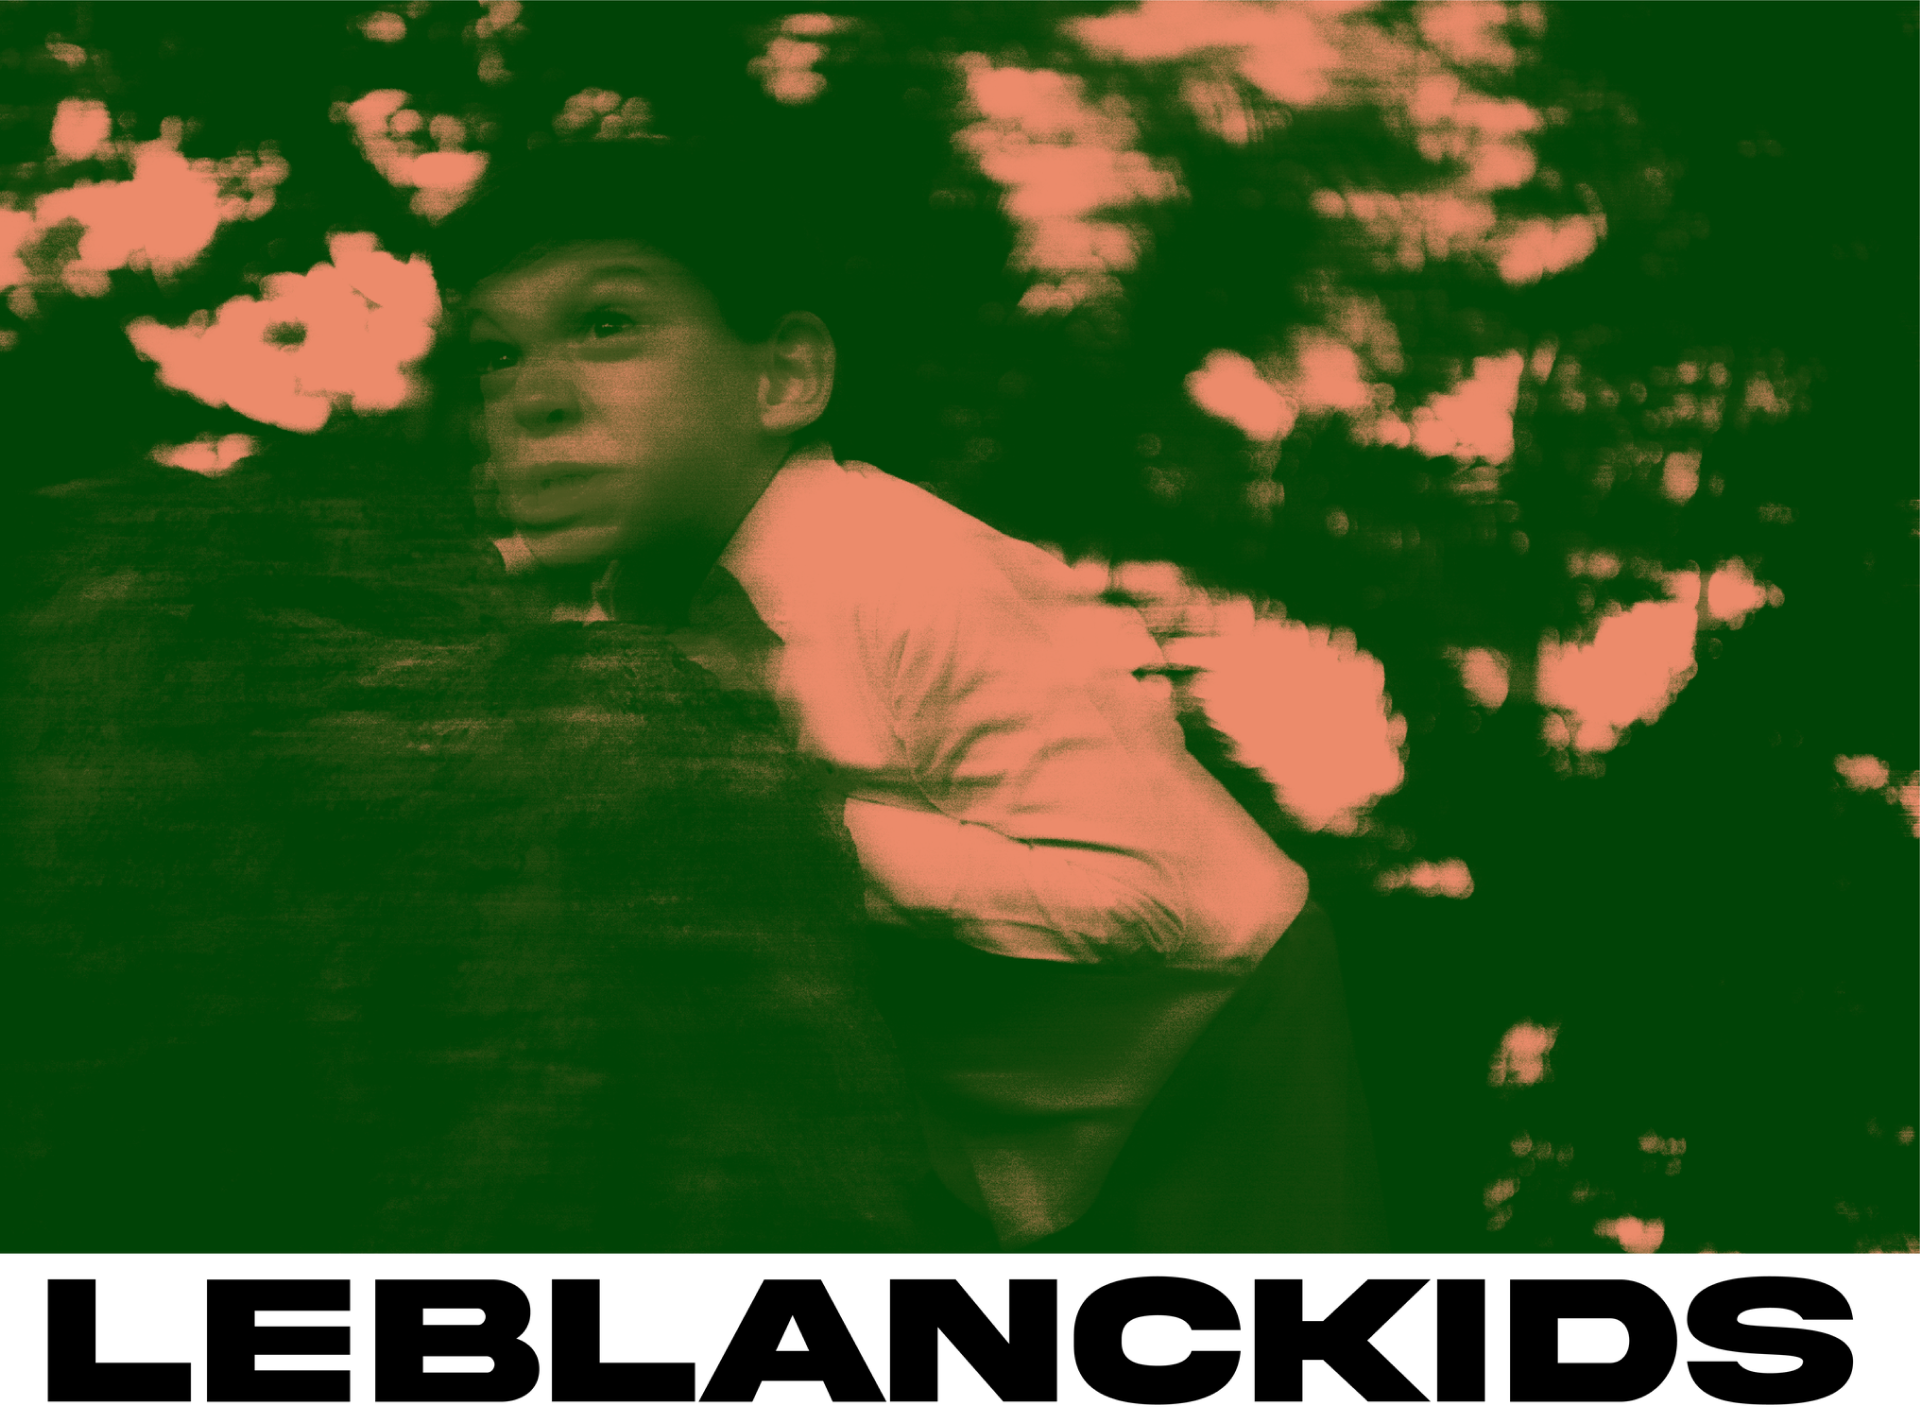
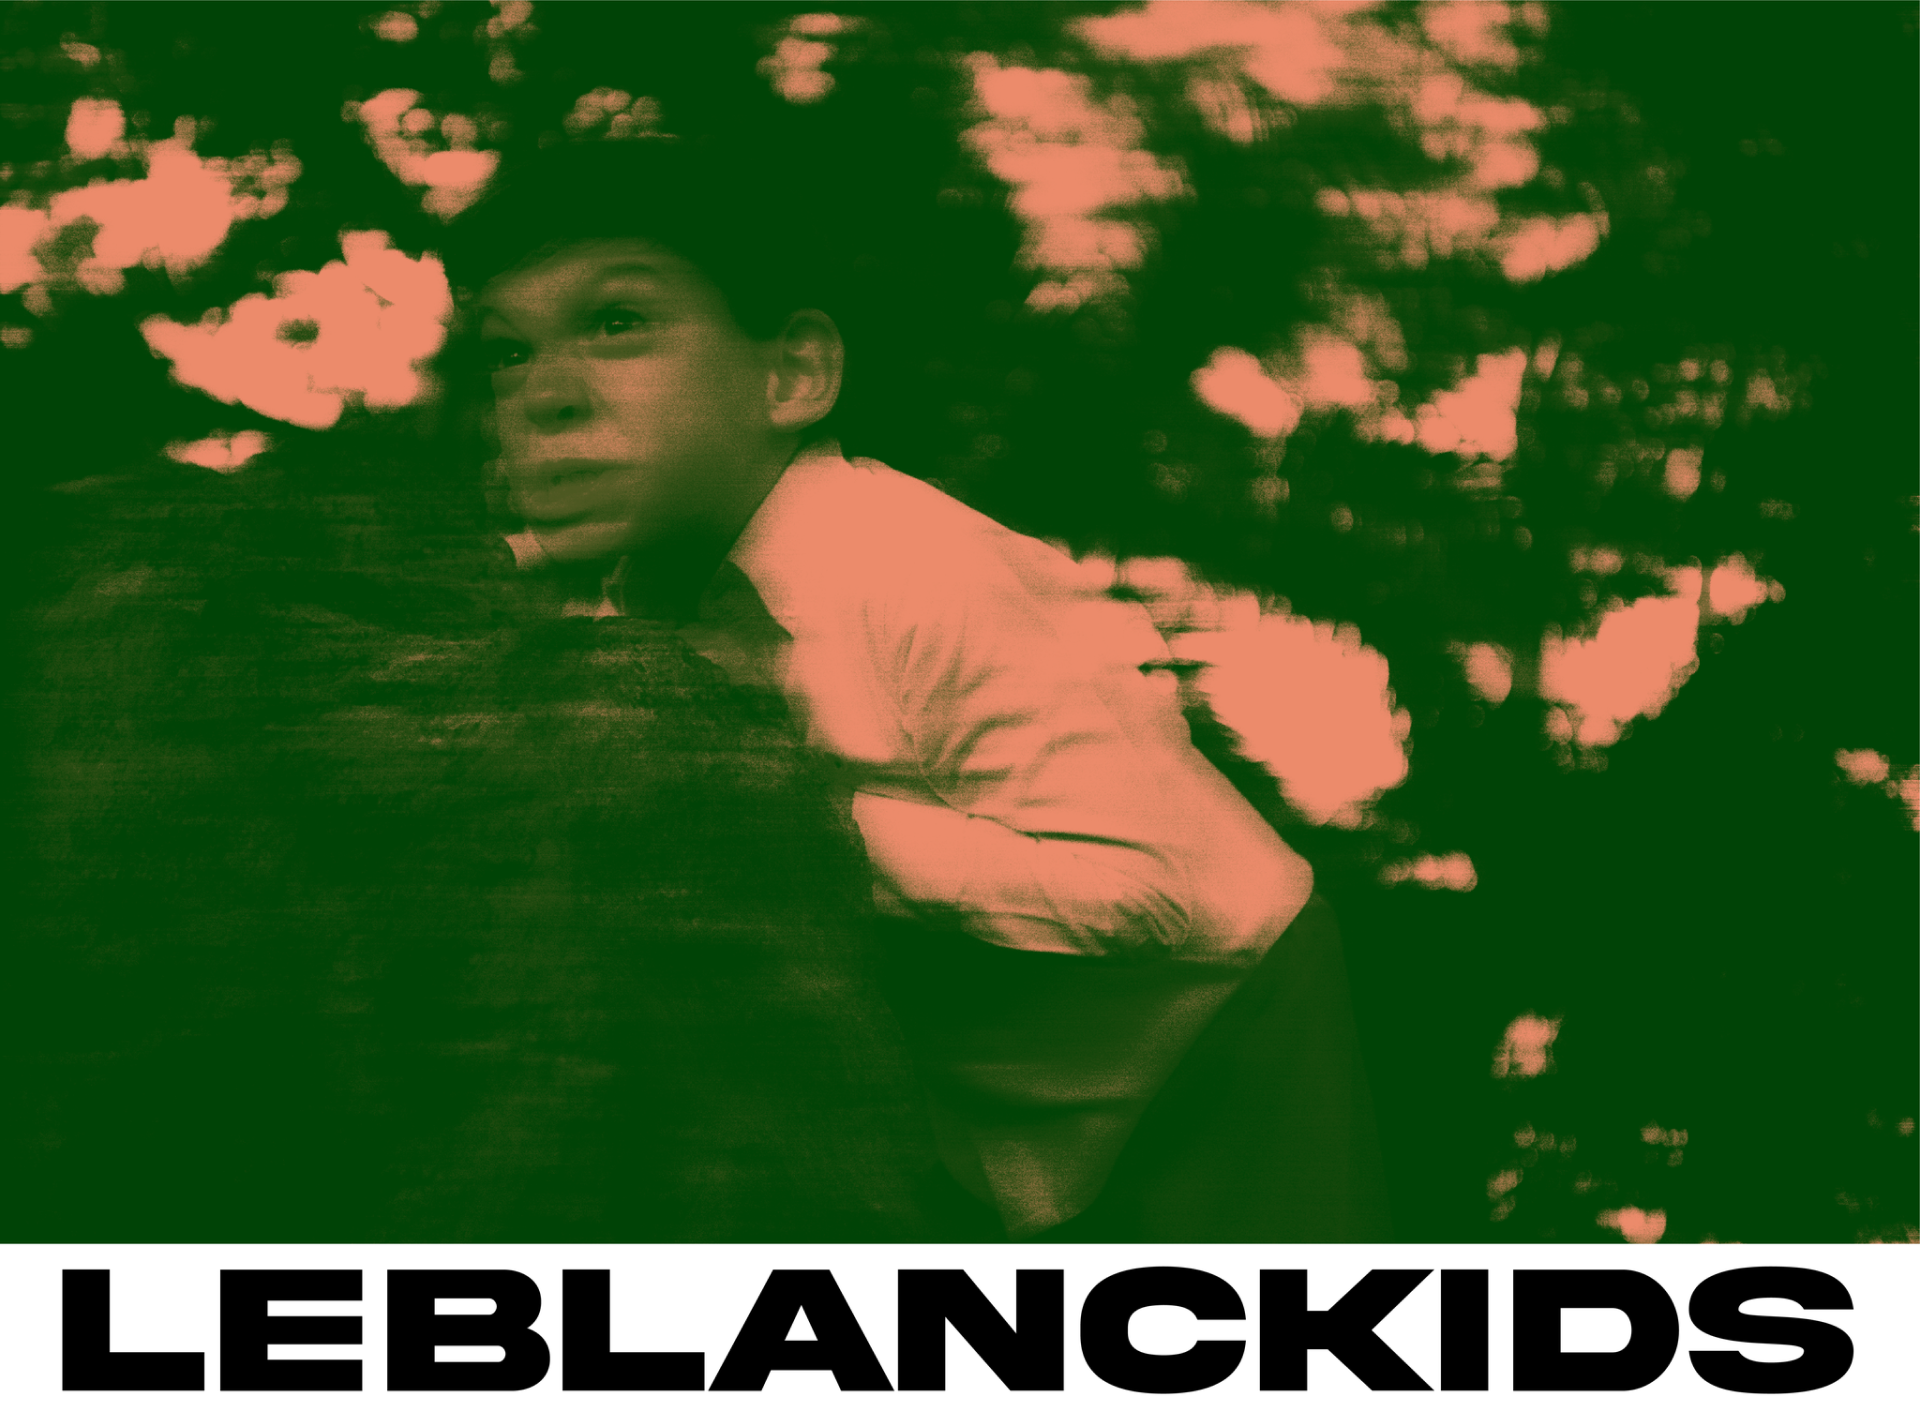
fix MenWomen component

diff --git a/leblanc/components/home/MenWomen/MenWomen.tsx b/leblanc/components/home/MenWomen/MenWomen.tsx
@@ -28,30 +28,14 @@ const MenWomen: FC = () => {
             <div className={s.cardContent}>
               <div className={s.cardHeader}>
                 <div className={s.headerCaption}>
-                  ss22: <b>[No Medium Inserted]</b>
+                  FW22: <b>[No Medium Inserted]</b>
                 </div>
               </div>
               <div className={s.cardFooter}>
                 <div className={s.footerCaption}>MENS</div>
               </div>
 
-              <Tooltip
-                appear={menLoaded}
-                top="34%"
-                left="11%"
-                width="20.6%"
-                className={s.tooltip}
-                text="Shirt [NMI]"
-              />
-              <Tooltip
-                appear={menLoaded}
-                bottom="30%"
-                right="15%"
-                align="right"
-                width="23.5%"
-                className={s.tooltip}
-                text="Trousers [NMI]"
-              />
+             
             </div>
           </a>
         </Link>
@@ -74,47 +58,13 @@ const MenWomen: FC = () => {
             <div className={s.cardContent}>
               <div className={s.cardHeader}>
                 <div className={s.headerCaption}>
-                  <b>[Timeless Duck Shirt: Intimo y Personal]</b>
+                  FW22: <b>[No Medium Inserted]</b>
                 </div>
               </div>
               <div className={s.cardFooter}>
                 <div className={s.footerCaption}>WOMENS</div>
               </div>
 
-              <Tooltip
-                appear={womenLoaded}
-                top="8%"
-                right="17%"
-                align="right"
-                width="23%"
-                className={s.tooltip}
-                text="Bucket Hat [TDS]"
-              />
-              <Tooltip
-                appear={womenLoaded}
-                top="36%"
-                left="11%"
-                width="26.5%"
-                className={s.tooltip}
-                text="Shirt Jacket [TDS]"
-              />
-              <Tooltip
-                appear={womenLoaded}
-                bottom="29%"
-                right="7%"
-                align="right"
-                width="23.5%"
-                className={s.tooltip}
-                text="Skirt [TDS]"
-              />
-              <Tooltip
-                appear={womenLoaded}
-                bottom="25.5%"
-                left="2.5%"
-                width="26%"
-                className={s.tooltip}
-                text="Tote Bag [FMP]"
-              />
             </div>
           </a>
         </Link>

diff --git a/leblanc/components/home/FeaturedCollection/FeaturedColleciton.tsx b/leblanc/components/home/FeaturedCollection/FeaturedColleciton.tsx
@@ -38,7 +38,7 @@ const FeaturedRow: FC = () => {
   return (
     <div className={s.root}>
 
-      <Link href="/collection/all-tds">
+      <Link href="/product/light-blue-classic-duck-shirtare a">
         <div className={s.row}>
           <div className={s.item}>
             <span>
@@ -93,7 +93,7 @@ const FeaturedRow: FC = () => {
                 <br />
                 <br />
                 <br />
-                  <br />
+                <br />
                 <br />
                 <br />
                 <p style={{ display: 'flex', alignItems: 'flex-end', height: 'min-content' }}>
@@ -104,11 +104,11 @@ const FeaturedRow: FC = () => {
             </motion.div>
           </a></div>
       </Link>
-      <Link href="/product/grey-longrace-duck-shirt">
+      <Link href="/product/a-necessary-risk-printed-t-shirt">
         <div className={s.row}>
           <div className={s.item}>
             <span>
-              <b>Now Available:</b> Light Blue Classic Duck Shirt
+              <b>Coming Soon:</b> A Necessary Risk Printed T-Shirt
             </span>
           </div>
           <a className={s.column}>

diff --git a/leblanc/components/home/MenWomen/MenWomen.module.css b/leblanc/components/home/MenWomen/MenWomen.module.css
@@ -11,14 +11,7 @@
     /* important to keep image same size */
     @apply h-full;
   }
-  &:hover {
-    & .image {
-      filter: none;
-    }
-    & .tooltip {
-      @apply text-black  border-black border-solid;
-    }
-  }
+
 }
 .cardContent {
   @apply absolute top-0 left-0 w-full h-full;
@@ -32,19 +25,18 @@
 }
 .headerCaption {
   @apply inline;
-  @apply border-t-2 border-secondary border-solid pt-2 px-4;
-  @apply text-right text-text-primary uppercase text-xs md:text-sm whitespace-nowrap;
+  @apply border-t-2 border-primary border-solid pt-2 px-4;
+  @apply text-right text-text-secondary uppercase text-xs md:text-sm whitespace-nowrap;
   width: 357px;
   max-width: 50%;
 }
 .footerCaption {
-  @apply border-t-2 border-secondary border-solid pt-2 md:pt-4;
-  @apply text-right text-text-primary text-lg uppercase;
+  @apply border-t-2 border-primary border-solid pt-2 md:pt-4;
+  @apply text-right text-text-secondary text-lg uppercase;
   width: 100px;
 }
 
 .image {
-  filter: grayscale(100%);
   transition-property: filter;
   @apply duration-300 ease-in;
 }

diff --git a/leblanc/components/home/ANecesaryRisk/ANecesaryRisk.tsx b/leblanc/components/home/ANecesaryRisk/ANecesaryRisk.tsx
@@ -18,7 +18,7 @@ const ANecesaryRisk: FC = () => {
           alt="kids leblanc"
           className={s.bgImage}
           width={1920}
-          height={1441}
+          height={1413}
           layout="responsive"
           objectFit="cover"
         />
@@ -35,7 +35,7 @@ const ANecesaryRisk: FC = () => {
               alt="kids leblanc"
               className={s.cardImage}
               width={1920}
-              height={1441}
+              height={1413}
               layout="fill"
               objectFit="cover"
             />

diff --git a/leblanc/components/home/ANecesaryRisk/ANecesaryRisk.module.css b/leblanc/components/home/ANecesaryRisk/ANecesaryRisk.module.css
@@ -1,5 +1,5 @@
 .root {
-  @apply relative pt-16 md:pt-12 lg:pt-10 2xl:pt-10 pb-10;
+  @apply relative ;
 }
 /* Top Bar */
 .topBar {
